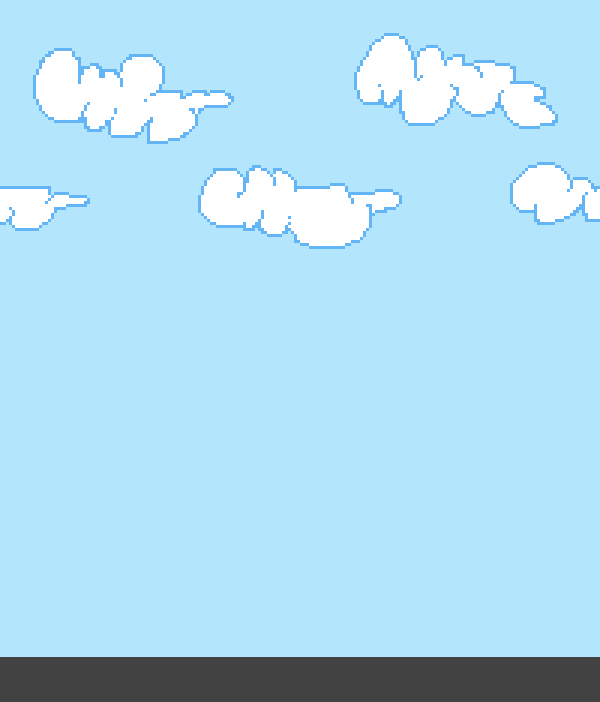
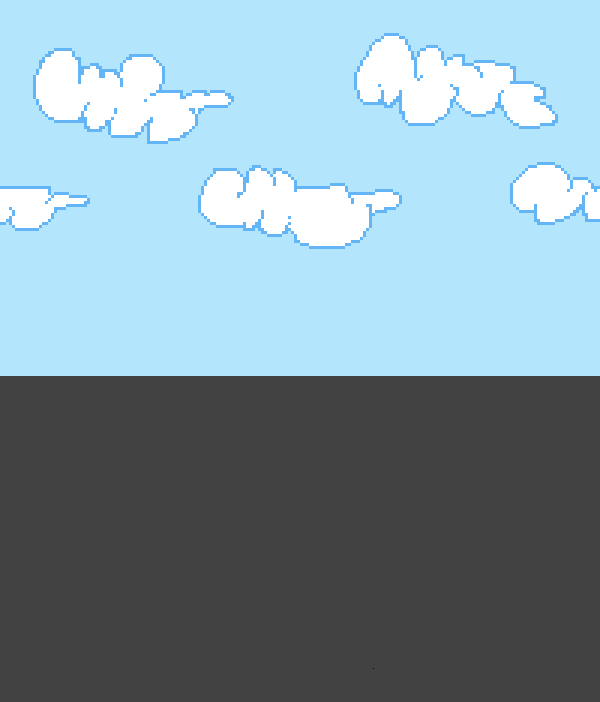
adds stair obstacle

diff --git a/src/kickflip/Contents.java b/src/kickflip/Contents.java
@@ -16,43 +16,53 @@ public class Contents extends JPanel implements ActionListener, KeyListener
 {
 
     private int floor;
+    private int streetCounter;
     private Timer t;
     private Image music;
     private Image streets;
     private Image set;
     private Image background;
     private Image skater;
+    private Image stairs;
     private ImageIcon sk;
     private ImageIcon m;
     private ImageIcon s;
     private ImageIcon bg;
     private ImageIcon st;
+    private ImageIcon sta;
     private BackgroundObject streetsProps;
+    private BackgroundObject streetsProps2;
     private BackgroundObject bgProps;
     private BackgroundObject setProps;
+    private BackgroundObject stairProps;
     private Character player;
     
     public Contents()
     {
+        streetCounter = 0;
         floor = 500;
         
         player = new Character(300, floor, floor);
         
         streetsProps = new BackgroundObject(0,0,-5,0);
+        streetsProps2 = new BackgroundObject(streetsProps.getX() + 600, 0 , -5, 0);
         bgProps = new BackgroundObject (0,-100,-3,0);
         setProps = new BackgroundObject(0, 0, -1, 0);
+        stairProps = new BackgroundObject(-500, -500, -5, 0);
         
         s = new ImageIcon(this.getClass().getResource("Set.png"));
         bg = new ImageIcon(this.getClass().getResource("Background.png"));
         st = new ImageIcon(this.getClass().getResource("Street.png"));
         m = new ImageIcon(this.getClass().getResource("Music.png"));
         sk = new ImageIcon(this.getClass().getResource("Skater.png"));
+        sta = new ImageIcon(this.getClass().getResource("stairs.png"));
         
         set = s.getImage();
         background = bg.getImage();
         streets = st.getImage();
         music = m.getImage();
         skater = sk.getImage();
+        stairs = sta.getImage();
         
         super.setDoubleBuffered(true);
         t = new Timer(7, this);
@@ -68,6 +78,14 @@ public class Contents extends JPanel implements ActionListener, KeyListener
     {
         super.paintComponent(g);
         
+        
+        if (streetsProps.getY() > 0 && player.getX() >= stairProps.getX())
+        {
+            streetsProps.setY(streetsProps.getY() - 5);
+            streetsProps2.setY(streetsProps2.getY() - 5);
+            stairProps.setY(stairProps.getY() - 5);
+        }
+        
         skater = player.getImage().getImage();
         
         Graphics2D g2d = (Graphics2D) (Graphics) g;
@@ -80,16 +98,39 @@ public class Contents extends JPanel implements ActionListener, KeyListener
         
         
         g2d.drawImage(streets, streetsProps.getX(), streetsProps.getY(), this);
-        g2d.drawImage(streets, streetsProps.getX() + 600, streetsProps.getY(), this);
+        g2d.drawImage(streets, streetsProps2.getX(), streetsProps2.getY(), this);
         
        
         g2d.drawImage(music, 520, 20, this);
         
+        if (stairProps.isOnScreen())
+        {
+            g2d.drawImage(stairs, stairProps.getX(), stairProps.getY(), this);
+        }
+        
         g2d.drawImage(player.getImage().getImage(), player.getX(), player.getY(), this);
+        
         
         if(streetsProps.getX() < -600)
         {
-            streetsProps.setX(0);
+            if( streetCounter == 5) 
+            {
+                streetCounter = 0;
+                stairProps = new BackgroundObject(streetsProps2.getX() + 600, 520, -5, 0);
+                streetsProps.setX(stairProps.getX() + 180);
+                streetsProps.setY(streetsProps.getY() + 180);
+                g2d.drawImage(stairs, stairProps.getX(), 425, this);
+                
+            }
+            else {
+                streetsProps.setX(0);
+                streetsProps2.setX(600);
+                streetCounter += 1;
+            }
+        }
+        if (streetsProps2.getX() < -600) {
+            streetsProps2.setX(streetsProps.getX() + 600);
+            streetsProps2.setY(streetsProps.getY());
         }
         
         if (bgProps.getX() < -600)
@@ -103,8 +144,12 @@ public class Contents extends JPanel implements ActionListener, KeyListener
         }
         
         streetsProps.updateLocation();
+        streetsProps2.updateLocation();
         bgProps.updateLocation();
         setProps.updateLocation();
+        stairProps.updateLocation();
+        
+        
         
         }
     

diff --git a/src/kickflip/Character.java b/src/kickflip/Character.java
@@ -74,6 +74,7 @@ public class Character
             y -= 5;
             ySpeed = -15;
             dyspeed = -15;
+            System.out.println("FLOOR: " + floor);
         }
     }
     
@@ -91,7 +92,6 @@ public class Character
     {
         if (y < floor && jumped)
         {
-            System.out.println(ySpeed);
             if (ySpeed == -13)
             {
                 displayedImage = sp3;

diff --git a/src/kickflip/BackgroundObject.java b/src/kickflip/BackgroundObject.java
@@ -30,9 +30,23 @@ public class BackgroundObject
         this.x = x;
     }
 
+    public void setY( int y )
+    {
+        this.y = y;
+    }
+    
     public void updateLocation()
     {
         x += xSpeed;
         y += ySpeed;
+    }
+    
+    public Boolean isOnScreen()
+    {
+        if (x > -500)
+        {
+            return true;
+        }
+        return false;
     }
 }
